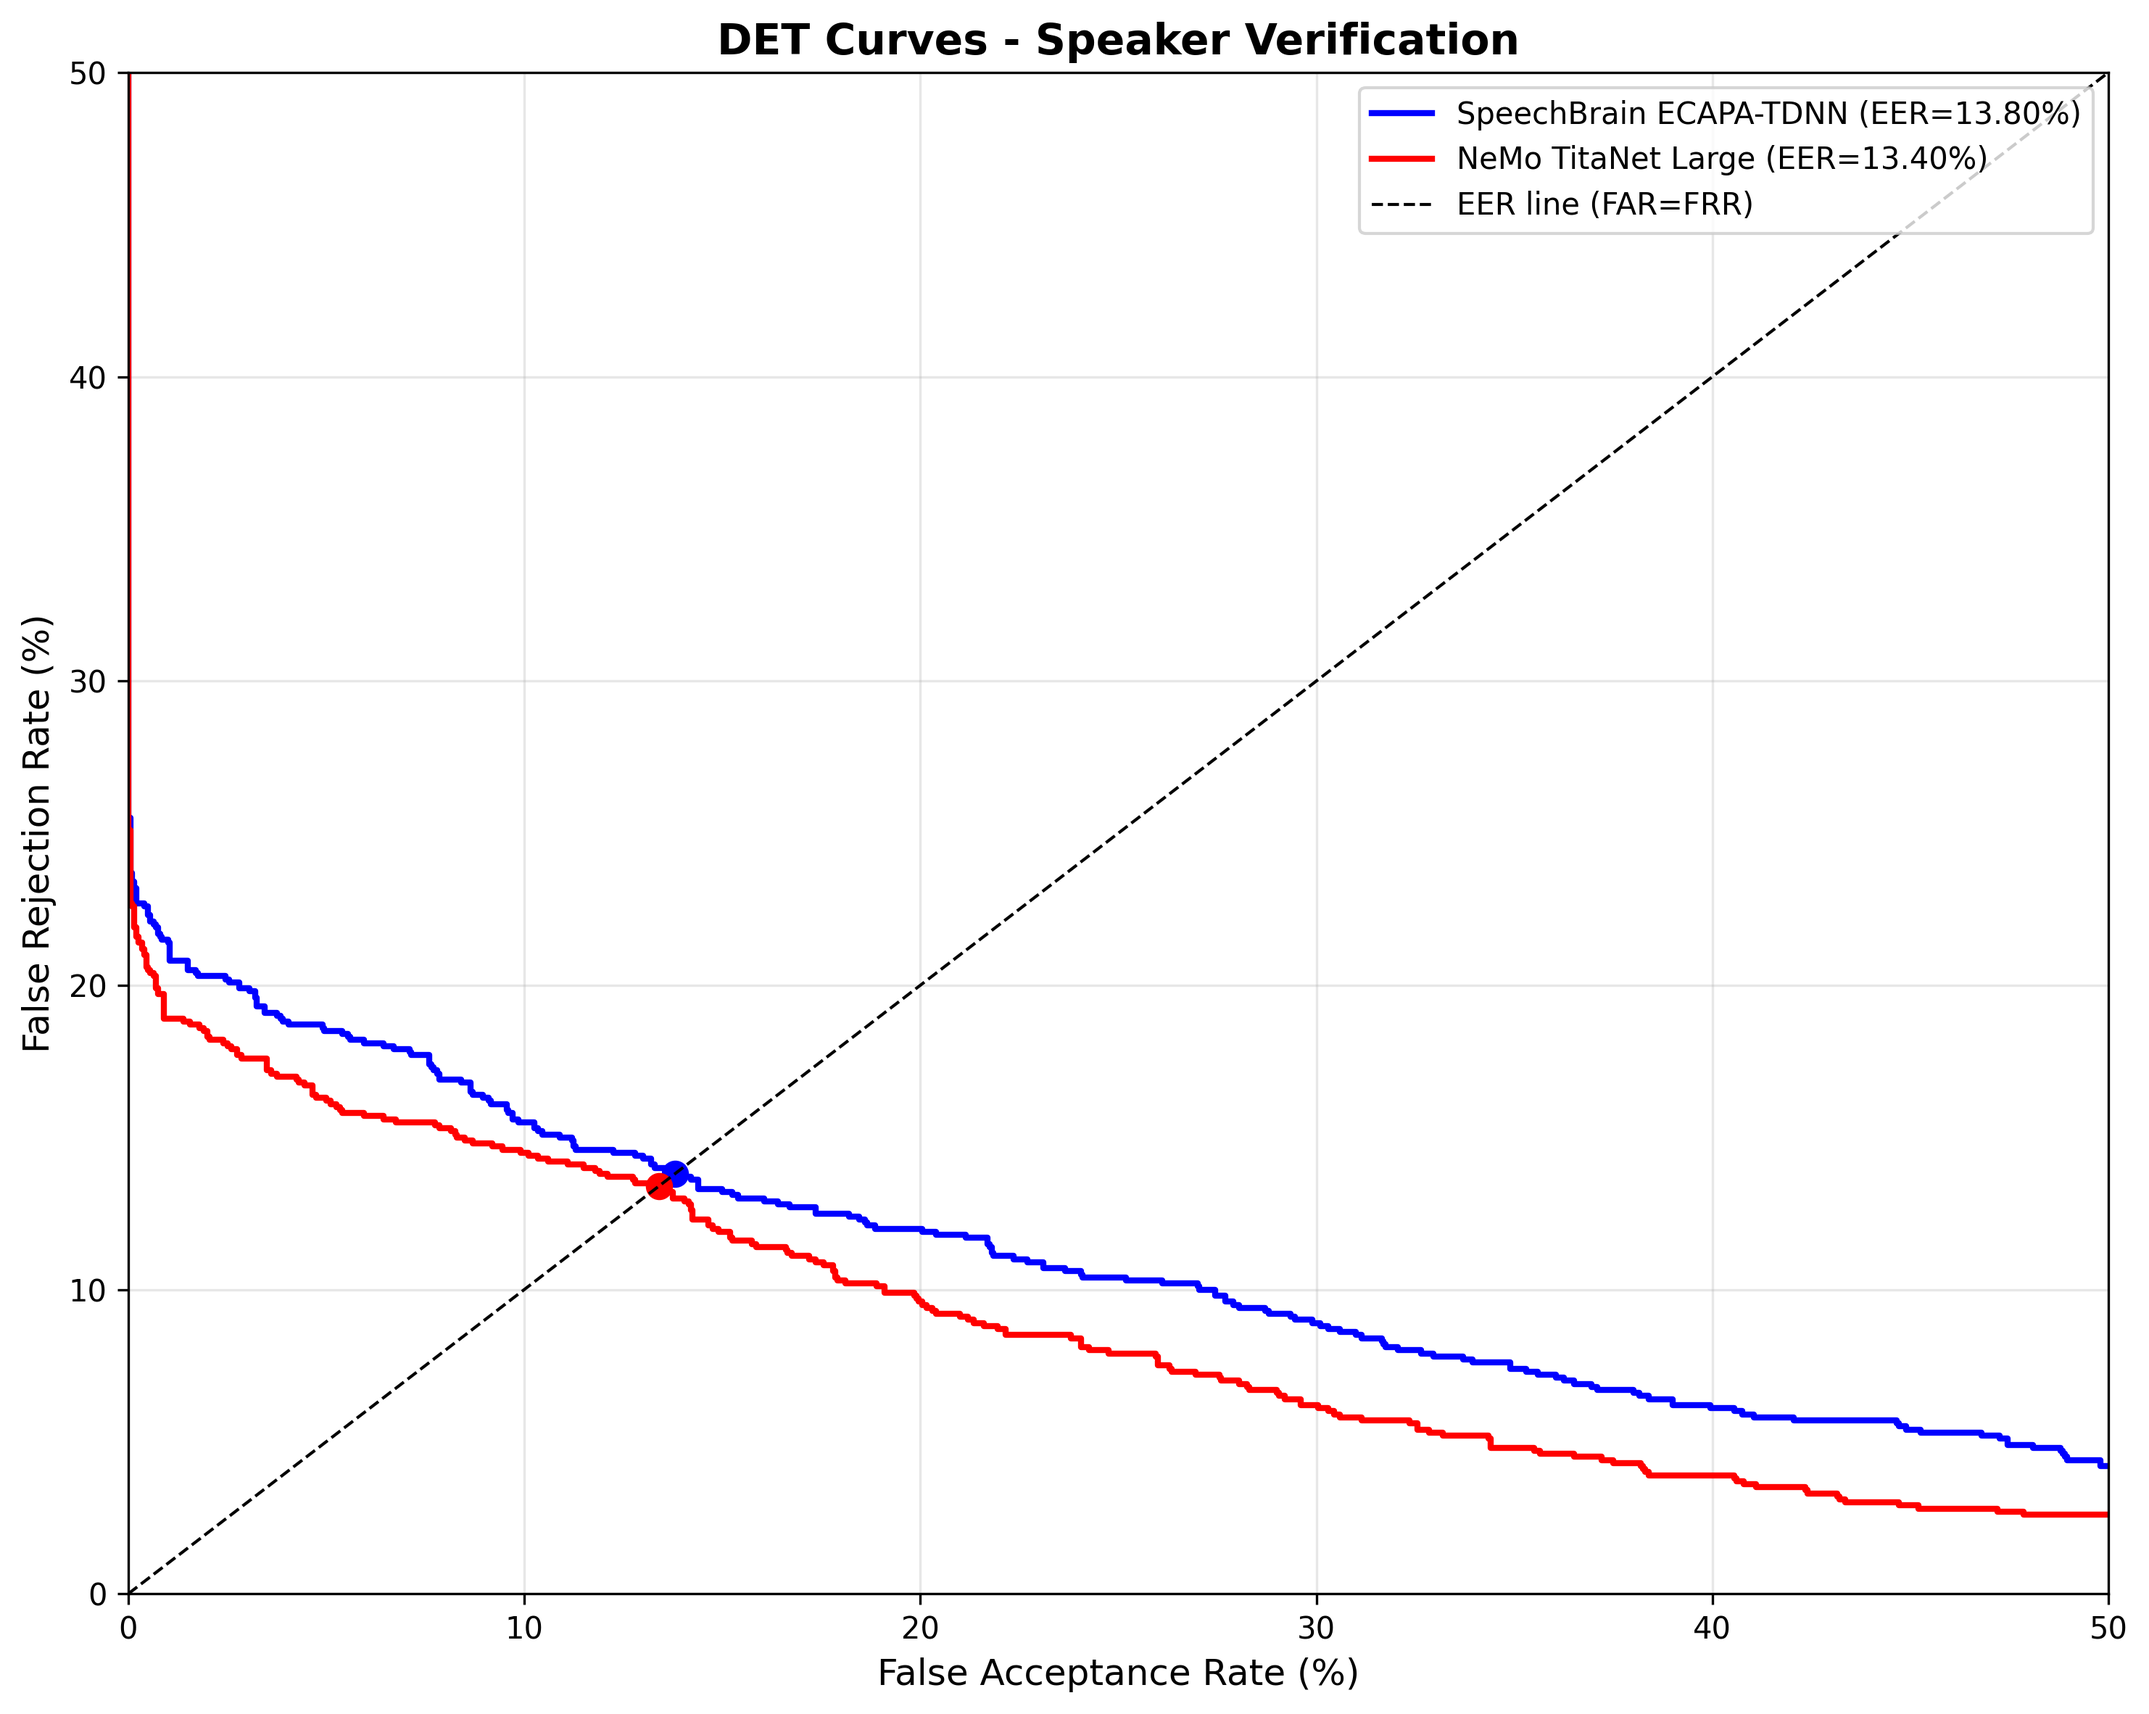
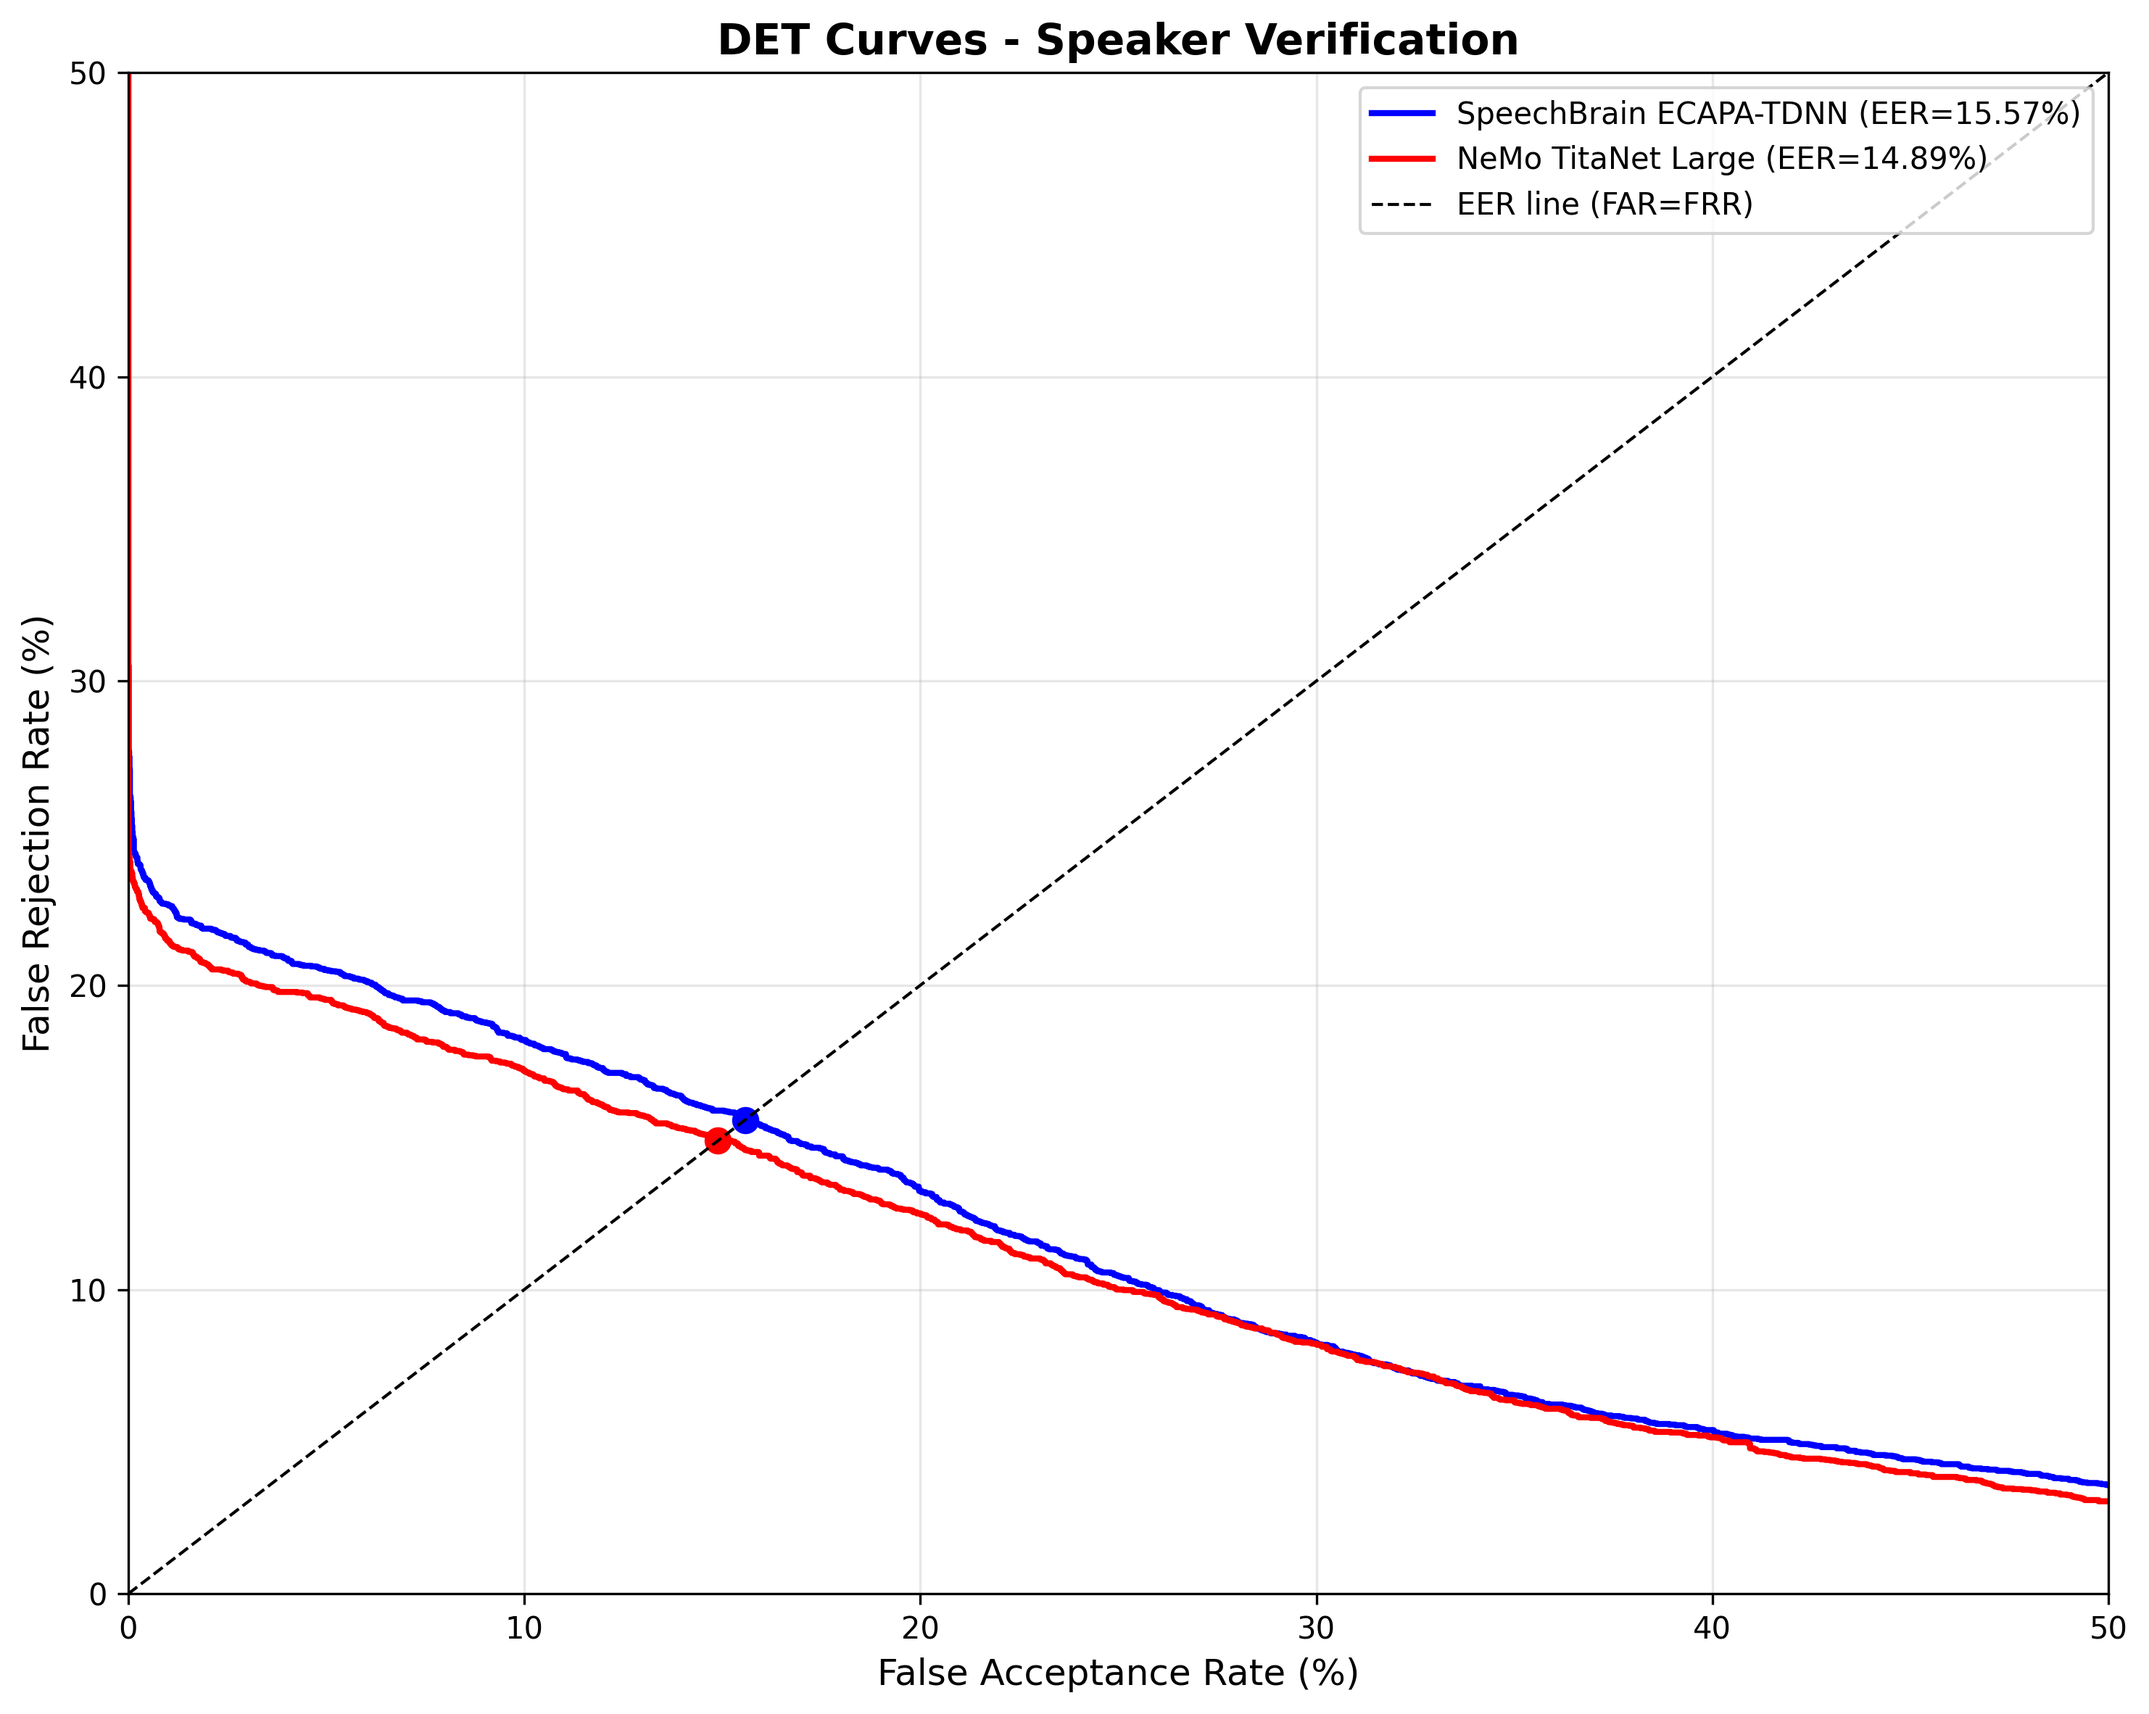
re-run NeMo diarization evaluation

Changed region(s): [[0.0621, 0.4941, 0.4966, 0.772], [0.4656, 0.7411, 0.9933, 0.8955], [0.9312, 0.0618, 0.9622, 0.0926]]

diff --git a/main_nemo.py b/main_nemo.py
@@ -390,7 +390,9 @@ class SimpleSpeakerDiarization:
         if isinstance(audio_path_or_array, str):
             audio, sr = sf.read(audio_path_or_array)
             if sr != 16000:
-                raise ValueError(f"Sample rate must be 16kHz, got {sr}Hz")
+                # Resample to 16kHz
+                import librosa
+                audio = librosa.resample(audio, orig_sr=sr, target_sr=16000)
             audio = audio.astype(np.float32)
         else:
             audio = audio_path_or_array.astype(np.float32)
